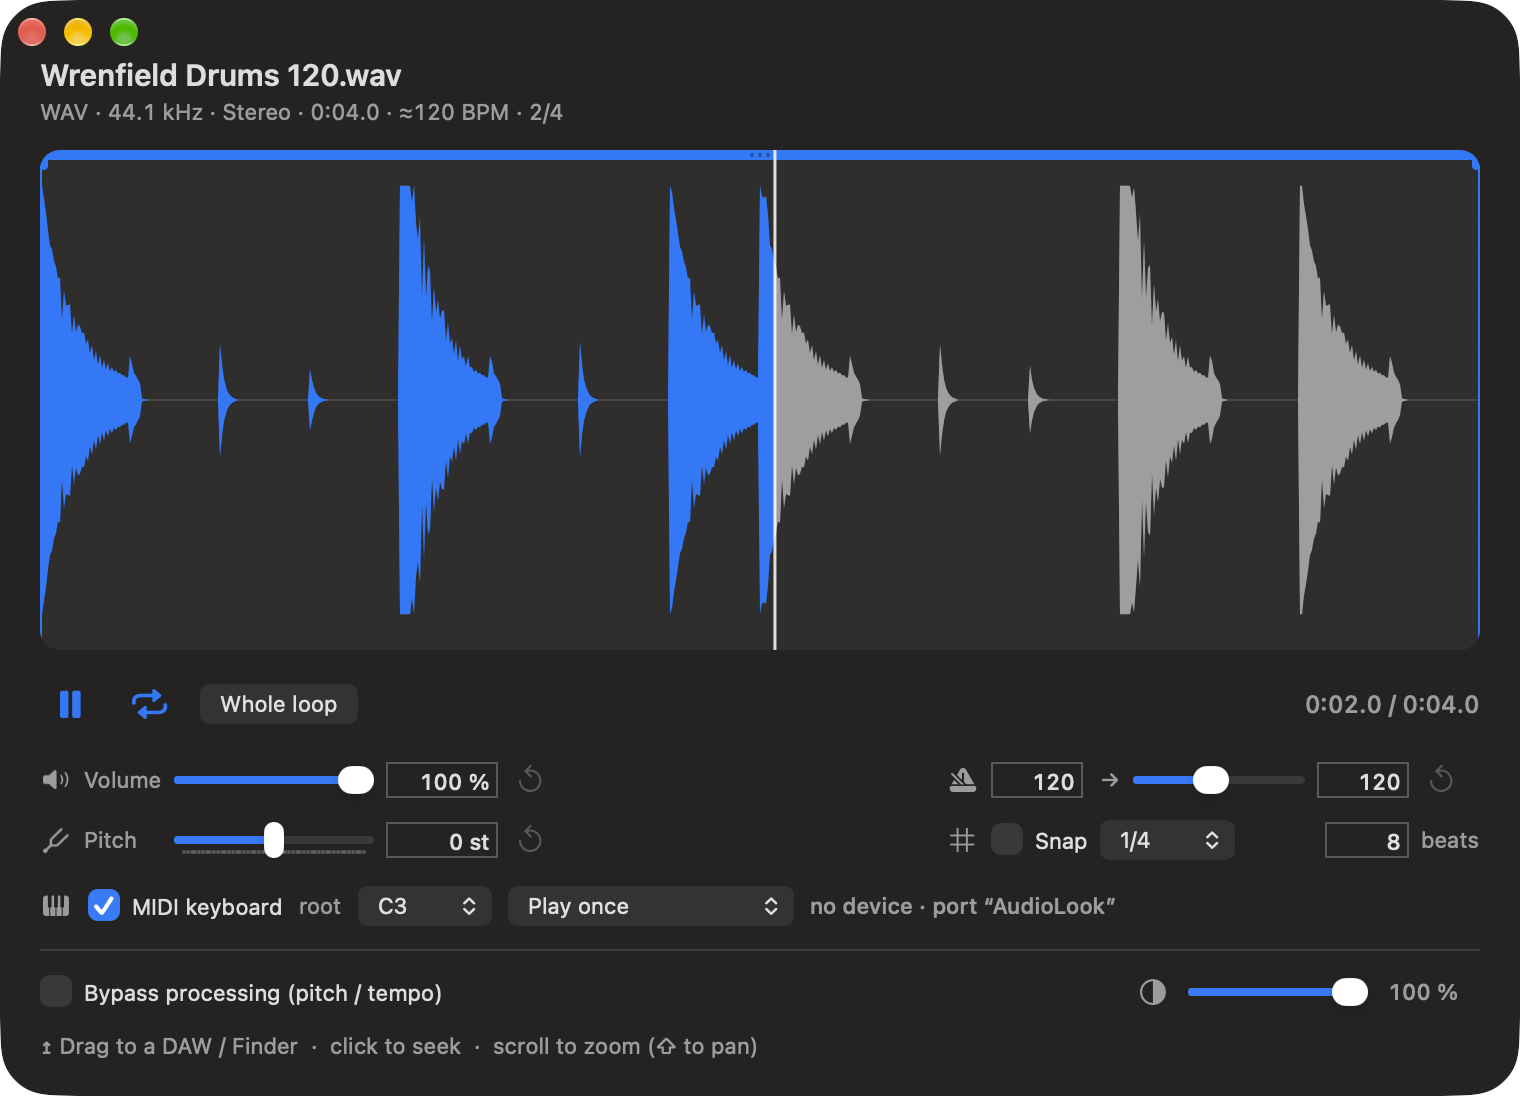
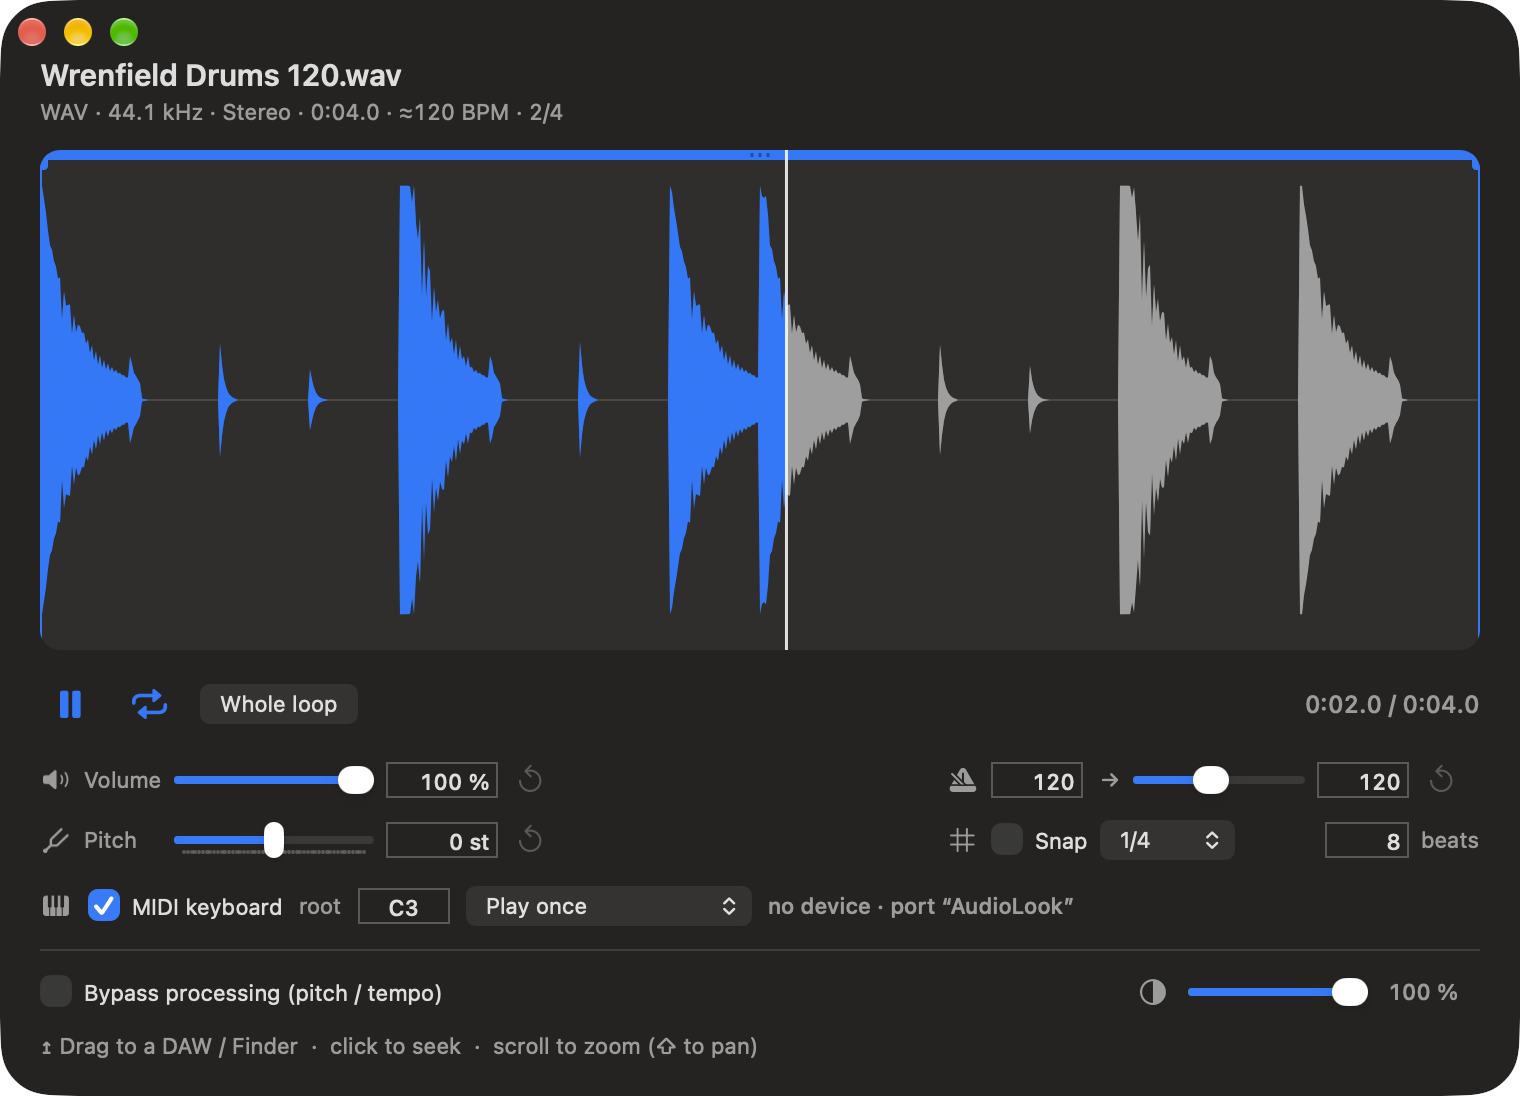
Type the root note instead of picking it from a list (1.4.2)
The root is a small field that reads a note name (C3, f#2, Bb1) or a MIDI
number; with the cursor in it, the key played on the MIDI keyboard becomes
the root. Demo mode no longer reads the stored root note.

Changed region(s): [[0.4947, 0.1551, 0.5257, 0.5894], [0.4947, 0.8066, 0.7421, 0.8376], [0.2474, 0.8066, 0.402, 0.8376]]

diff --git a/Src/PlayerViewController.swift b/Src/PlayerViewController.swift
@@ -36,7 +36,8 @@ final class PlayerViewController: NSViewController, NSWindowDelegate {
 
     // Clavier MIDI → sampler (mode varispeed : la note de base joue l'échantillon tel quel)
     private let midiToggle = NSButton(checkboxWithTitle: Lang.t("MIDI keyboard", "Clavier MIDI"), target: nil, action: nil)
-    private let rootPopup = NSPopUpButton()
+    private let rootField = NSTextField()
+    private var rootNote = 60
     private let midiModePopup = NSPopUpButton()
     private let midiStatus = NSTextField(labelWithString: "")
     private let midiIn = MidiInput()
@@ -135,12 +136,17 @@ final class PlayerViewController: NSViewController, NSWindowDelegate {
         midiToggle.target = self; midiToggle.action = #selector(midiToggleChanged); midiToggle.font = .systemFont(ofSize: 11)
         midiToggle.toolTip = Lang.t("Play the A/B region from a MIDI keyboard, or from a DAW track sent to the “AudioLook” MIDI port",
                                     "Jouer la région A/B au clavier MIDI, ou depuis une piste de DAW envoyée vers le port MIDI « AudioLook »")
-        rootPopup.addItems(withTitles: (0...127).map { Self.noteName($0) })
-        rootPopup.selectItem(at: d.object(forKey: midiRootKey) as? Int ?? 60)
-        rootPopup.controlSize = .small; rootPopup.font = .systemFont(ofSize: 11)
-        rootPopup.target = self; rootPopup.action = #selector(midiSettingsChanged)
-        rootPopup.toolTip = Lang.t("Root note: plays the sample as you hear it (current pitch and tempo)",
-                                   "Note de base : joue l'échantillon tel que vous l'entendez (pitch et tempo actuels)")
+        // note de base : un champ où l'on tape la note (« C3 », « f#2 », « 60 »…)
+        // (en démonstration, la note de base est toujours C3 : les réglages réels ne sont ni lus ni modifiés)
+        rootNote = DemoData.isEnabled ? 60 : max(0, min(127, d.object(forKey: midiRootKey) as? Int ?? 60))
+        rootField.stringValue = Self.noteName(rootNote)
+        rootField.font = .monospacedDigitSystemFont(ofSize: 11, weight: .medium); rootField.alignment = .center
+        rootField.isEditable = true; rootField.isBordered = true; rootField.bezelStyle = .roundedBezel; rootField.focusRingType = .none
+        rootField.setContentHuggingPriority(.required, for: .horizontal)
+        rootField.widthAnchor.constraint(equalToConstant: 46).isActive = true
+        rootField.target = self; rootField.action = #selector(rootFieldEdited)
+        rootField.toolTip = Lang.t("Root note: plays the sample as you hear it (current pitch and tempo). Type a note (C3, F#2, Bb1) or a MIDI number (60), or click here and play a key.",
+                                   "Note de base : joue l'échantillon tel que vous l'entendez (pitch et tempo actuels). Tapez une note (C3, F#2, Bb1) ou un numéro MIDI (60), ou cliquez ici et jouez une touche.")
         midiModePopup.addItems(withTitles: [Lang.t("Play once", "Jouer une fois"), Lang.t("Loop A/B while held", "Boucler A/B tant que tenu")])
         midiModePopup.selectItem(at: d.bool(forKey: midiLoopKey) ? 1 : 0)
         midiModePopup.controlSize = .small; midiModePopup.font = .systemFont(ofSize: 11)
@@ -149,7 +155,7 @@ final class PlayerViewController: NSViewController, NSWindowDelegate {
         midiStatus.font = .monospacedDigitSystemFont(ofSize: 11, weight: .medium); midiStatus.textColor = .secondaryLabelColor
         midiStatus.lineBreakMode = .byTruncatingTail
         midiStatus.setContentCompressionResistancePriority(.defaultLow, for: .horizontal)
-        let midiRow = hstack([icon("pianokeys"), midiToggle, label(Lang.t("root", "base")), rootPopup, midiModePopup, midiStatus, NSView()], 8)
+        let midiRow = hstack([icon("pianokeys"), midiToggle, label(Lang.t("root", "base")), rootField, midiModePopup, midiStatus, NSView()], 8)
 
         let sep = NSBox(); sep.boxType = .separator; sep.translatesAutoresizingMaskIntoConstraints = false
 
@@ -446,13 +452,10 @@ final class PlayerViewController: NSViewController, NSWindowDelegate {
     // MARK: Clavier MIDI (sampler)
 
     /// Nom de note, convention Logic (do central = C3 = note 60).
-    static func noteName(_ n: Int) -> String {
-        let names = ["C", "C#", "D", "D#", "E", "F", "F#", "G", "G#", "A", "A#", "B"]
-        return names[n % 12] + String(n / 12 - 2)
-    }
+    static func noteName(_ n: Int) -> String { NoteName.name(n) }
 
     private func setupMidiInput() {
-        player.sampler.setRoot(rootPopup.indexOfSelectedItem)
+        player.sampler.setRoot(rootNote)
         player.sampler.setLoopMode(midiModePopup.indexOfSelectedItem == 1)
         // Les notes partent directement vers le sampler depuis le thread MIDI (latence minimale) ;
         // l'interface est mise à jour ensuite sur le thread principal.
@@ -475,24 +478,45 @@ final class PlayerViewController: NSViewController, NSWindowDelegate {
     }
 
     @objc private func midiSettingsChanged() {
-        let root = rootPopup.indexOfSelectedItem, loop = midiModePopup.indexOfSelectedItem == 1
-        UserDefaults.standard.set(root, forKey: midiRootKey)
+        let loop = midiModePopup.indexOfSelectedItem == 1
         UserDefaults.standard.set(loop, forKey: midiLoopKey)
-        player.sampler.setRoot(root)
         player.sampler.setLoopMode(loop)
         focusWave()
     }
+
+    /// Note de base tapée au clavier : nom de note (« C3 », « f#2 », « Bb1 ») ou numéro MIDI (« 60 »).
+    /// Une saisie illisible remet la note en cours.
+    @objc private func rootFieldEdited() {
+        if let n = NoteName.parse(rootField.stringValue) { setRoot(n) } else { rootField.stringValue = Self.noteName(rootNote) }
+        focusWave()
+    }
+
+    private func setRoot(_ n: Int) {
+        rootNote = max(0, min(127, n))
+        rootField.stringValue = Self.noteName(rootNote)
+        if !DemoData.isEnabled { UserDefaults.standard.set(rootNote, forKey: midiRootKey) }
+        player.sampler.setRoot(rootNote)
+    }
+
+    /// Le champ de la note de base est en cours de saisie (il a le curseur).
+    private var isEditingRoot: Bool { rootField.currentEditor() != nil }
 
     /// Le sampler ne répond que pour un fichier audio chargé, fenêtre visible, MIDI activé.
     private func updateSamplerArming() {
         let armed = midiToggle.state == .on && !isMidi && player.source != nil && (view.window?.isVisible ?? false)
         player.sampler.setArmed(armed)
-        for c in [rootPopup, midiModePopup] { c.isEnabled = midiToggle.state == .on && !isMidi }
+        for c in [rootField, midiModePopup] as [NSControl] { c.isEnabled = midiToggle.state == .on && !isMidi }
         updateMidiStatus()
     }
 
     private func midiEventReceived(_ e: MidiEvent, started: Bool) {
         guard case let .noteOn(note, _) = e else { return }
+        // curseur dans le champ « base » : la touche jouée devient la note de base
+        if isEditingRoot {
+            player.sampler.allNotesOff()
+            setRoot(Int(note)); focusWave()
+            return
+        }
         if !started {
             // fenêtre fermée puis rouverte, ou moteur pas encore armé : on réarme pour la note suivante
             updateSamplerArming()

diff --git a/Src/SamplerVoices.swift b/Src/SamplerVoices.swift
@@ -114,6 +114,34 @@ final class SamplerZone: @unchecked Sendable {
     }
 }
 
+// MARK: - Noms de notes
+
+/// Noms de notes, convention Logic (do central = C3 = note 60).
+enum NoteName {
+    private static let names = ["C", "C#", "D", "D#", "E", "F", "F#", "G", "G#", "A", "A#", "B"]
+
+    static func name(_ n: Int) -> String { names[n % 12] + String(n / 12 - 2) }
+
+    /// Lit une note tapée au clavier : « C3 », « f#2 », « Bb1 », « a-1 », ou un numéro MIDI « 60 ».
+    /// Sans octave (« F# »), l'octave 3. Rend `nil` si la saisie est illisible ou hors de 0…127.
+    static func parse(_ text: String) -> Int? {
+        let t = text.trimmingCharacters(in: .whitespaces).replacingOccurrences(of: " ", with: "")
+        if let n = Int(t) { return (0...127).contains(n) ? n : nil }
+        guard let first = t.first, let base = ["C": 0, "D": 2, "E": 4, "F": 5, "G": 7, "A": 9, "B": 11][String(first).uppercased()]
+        else { return nil }
+        var rest = t.dropFirst()
+        var semis = base
+        if let a = rest.first {
+            if a == "#" || a == "♯" { semis += 1; rest = rest.dropFirst() }
+            else if a == "b" || a == "B" || a == "♭" { semis -= 1; rest = rest.dropFirst() }
+        }
+        let octave: Int
+        if rest.isEmpty { octave = 3 } else if let o = Int(rest) { octave = o } else { return nil }
+        let n = (octave + 2) * 12 + semis
+        return (0...127).contains(n) ? n : nil
+    }
+}
+
 // MARK: - Évènements MIDI
 
 enum MidiEvent: Sendable {

diff --git a/Tests/main.swift b/Tests/main.swift
@@ -168,6 +168,17 @@ check(ev(0x20B0_4050) == "sustain(true)", "décodage sustain")
 check(ev(0x20B0_7B00) == "allNotesOff", "décodage All Notes Off")
 check(ev(0x20B0_0740) == "nil", "CC7 ignoré")
 
+// --- note de base tapée au clavier
+check(NoteName.parse("C3") == 60, "saisie « C3 » → 60")
+check(NoteName.parse("60") == 60, "saisie « 60 » → 60")
+check(NoteName.parse(" f#2 ") == 54, "saisie « f#2 » → 54")
+check(NoteName.parse("Bb1") == 46 && NoteName.parse("bb1") == 46, "saisie « Bb1 » → 46")
+check(NoteName.parse("b3") == 71, "saisie « b3 » → 71 (si, pas bémol)")
+check(NoteName.parse("a-1") == 21 && NoteName.parse("C-2") == 0 && NoteName.parse("G8") == 127, "saisie : octaves −2 à 8")
+check(NoteName.parse("D") == 62, "saisie sans octave → octave 3")
+check(NoteName.parse("H2") == nil && NoteName.parse("") == nil && NoteName.parse("A9") == nil && NoteName.parse("128") == nil, "saisie illisible ou hors limites refusée")
+check((0...127).allSatisfy { NoteName.parse(NoteName.name($0)) == $0 }, "saisie : chaque nom affiché se relit")
+
 // --- CoreMIDI : création du client, du port et du port virtuel « AudioLook »
 let input = MidiInput()
 input.start()

diff --git a/README.md b/README.md
@@ -94,8 +94,10 @@ Tick **MIDI keyboard** (on by default) and play: AudioLook works as a classic **
 and tempo. Each semitone above or below plays it faster or slower, so pitch and length change
 together, like on an MPC.
 
-![AudioLook — a held C3 looping the A/B region, the playhead following the note](docs/screenshot-keyboard.png)
+![AudioLook — a held C3 looping the A/B region, the playhead following the note, and the root field](docs/screenshot-keyboard.png)
 
+- **Root note**: type it in the **root** field, as a note name (`C3`, `f#2`, `Bb1`) or a MIDI
+  number (`60`), then press Return. Or click in the field and play a key: that key becomes the root.
 - **Play once**: the region plays to its end at most. **Loop A/B while held**: the region loops
   for as long as the key is held. In both modes, **releasing the key stops the sound**.
 - Up to 16 notes at once, **velocity** sets the level, **pitch bend** ±2 semitones, and the

diff --git a/CHANGELOG.md b/CHANGELOG.md
@@ -2,6 +2,12 @@
 
 All notable changes to **AudioLook**.
 
+## 1.4.2 — 2026-11-25
+- **Type the root note.** The list of 128 notes is replaced by a small field: type a note name
+  (`C3`, `f#2`, `Bb1`) or a MIDI number (`60`) and press Return. Without an octave (`F#`), octave 3
+  is used; an entry that can't be read leaves the root unchanged.
+- With the cursor in that field, the key you play on the MIDI keyboard becomes the root note.
+
 ## 1.4.1 — 2026-11-25
 - **The playhead follows the note you play.** While a MIDI note sounds, the playhead and the time
   counter track that note through the A/B region, at the speed of the note (twice as fast an
